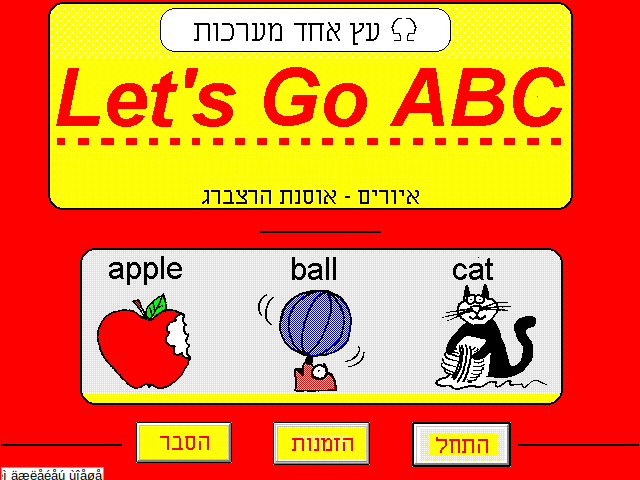
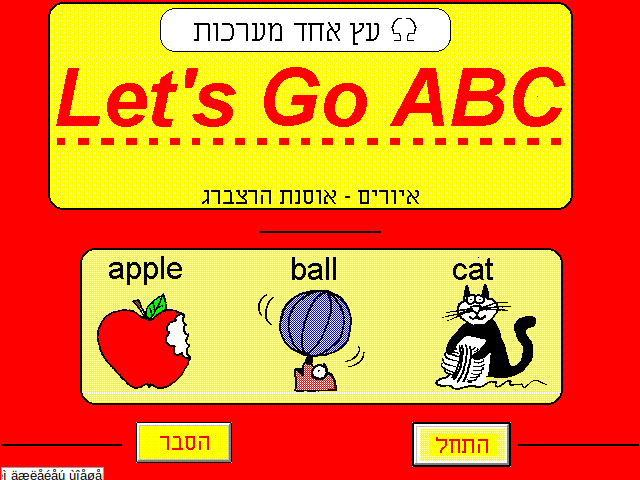
Remove the הזמנות button from both apps' cover screens

Changed region(s): [[0.4062, 0.875, 0.5938, 0.9688]]

diff --git a/web/phonetics/app.js b/web/phonetics/app.js
@@ -124,7 +124,6 @@ function showCover() {
   img('cover_bg', 0, 0);
   el('div', { x: 0, y: 466, w: 110, h: 14, cls: 'he', text: '© כל הזכויות שמורות', style: { background: '#fff', fontSize: '11px', lineHeight: '14px', paddingRight: '3px' } });
   hot(75, 419, 178, 467, () => helpCard(A + 'help.png'));                      // הסבר
-  hot(269, 419, 372, 467, () => helpCard(A + 'hevra.png'));                    // הזמנות
   hot(466, 419, 570, 469, () => { showTop(0); play('lets_go'); });             // התחל
 }
 

diff --git a/web/abc/app.js b/web/abc/app.js
@@ -115,7 +115,6 @@ function showCover() {
   img('cover_bg', 0, 0);
   el('div', { x: 0, y: 466, w: 110, h: 14, cls: 'he', text: '© כל הזכויות שמורות', style: { background: '#fff', fontSize: '11px', lineHeight: '14px', paddingRight: '3px' } });
   hot(136, 422, 232, 463, () => help(A + 'help.png'));                 // הסבר
-  hot(273, 422, 370, 465, () => help(A + 'hevra.png'));                // הזמנות
   hot(412, 422, 511, 467, () => { showMenu(); play('lets_go'); });     // התחל
 }
 
